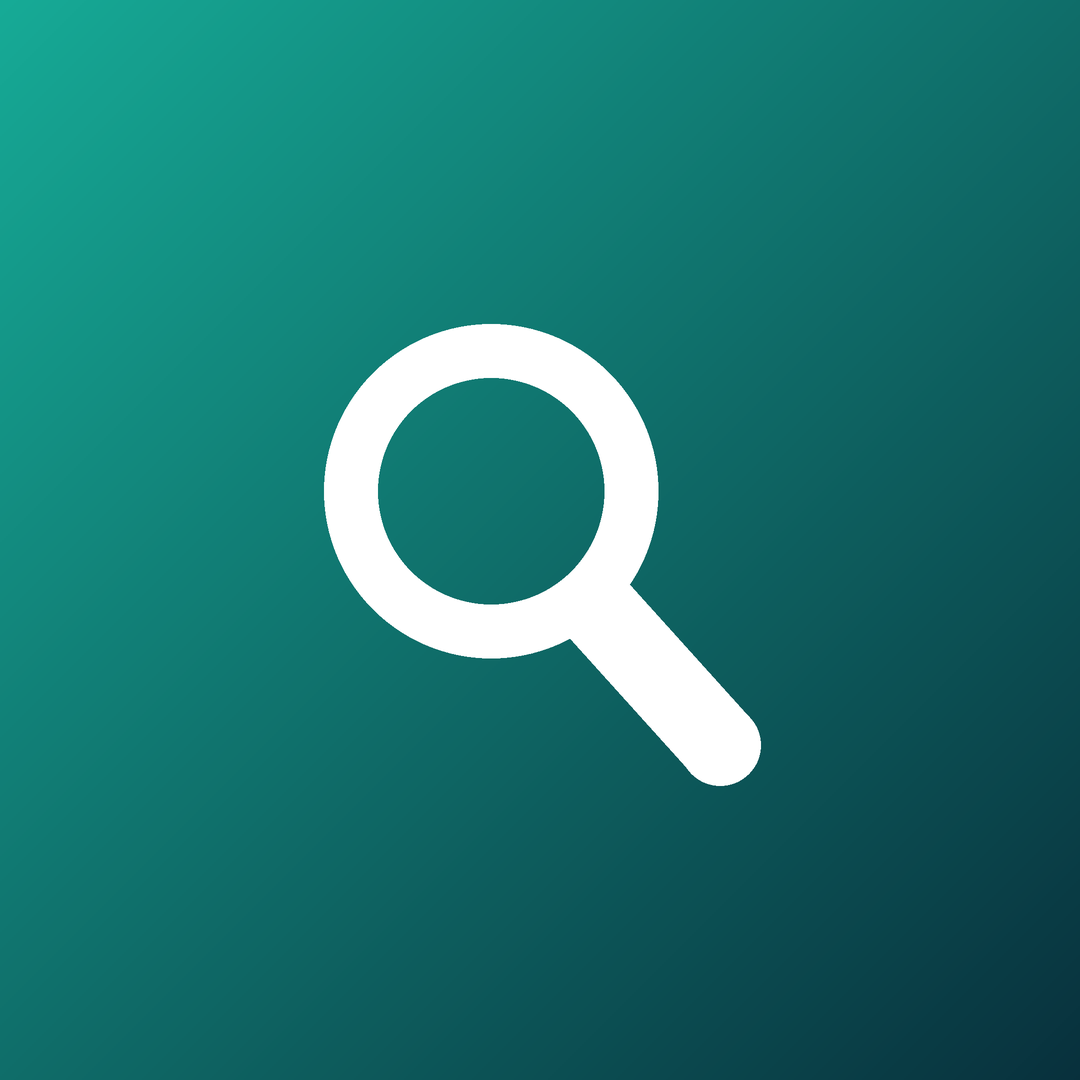
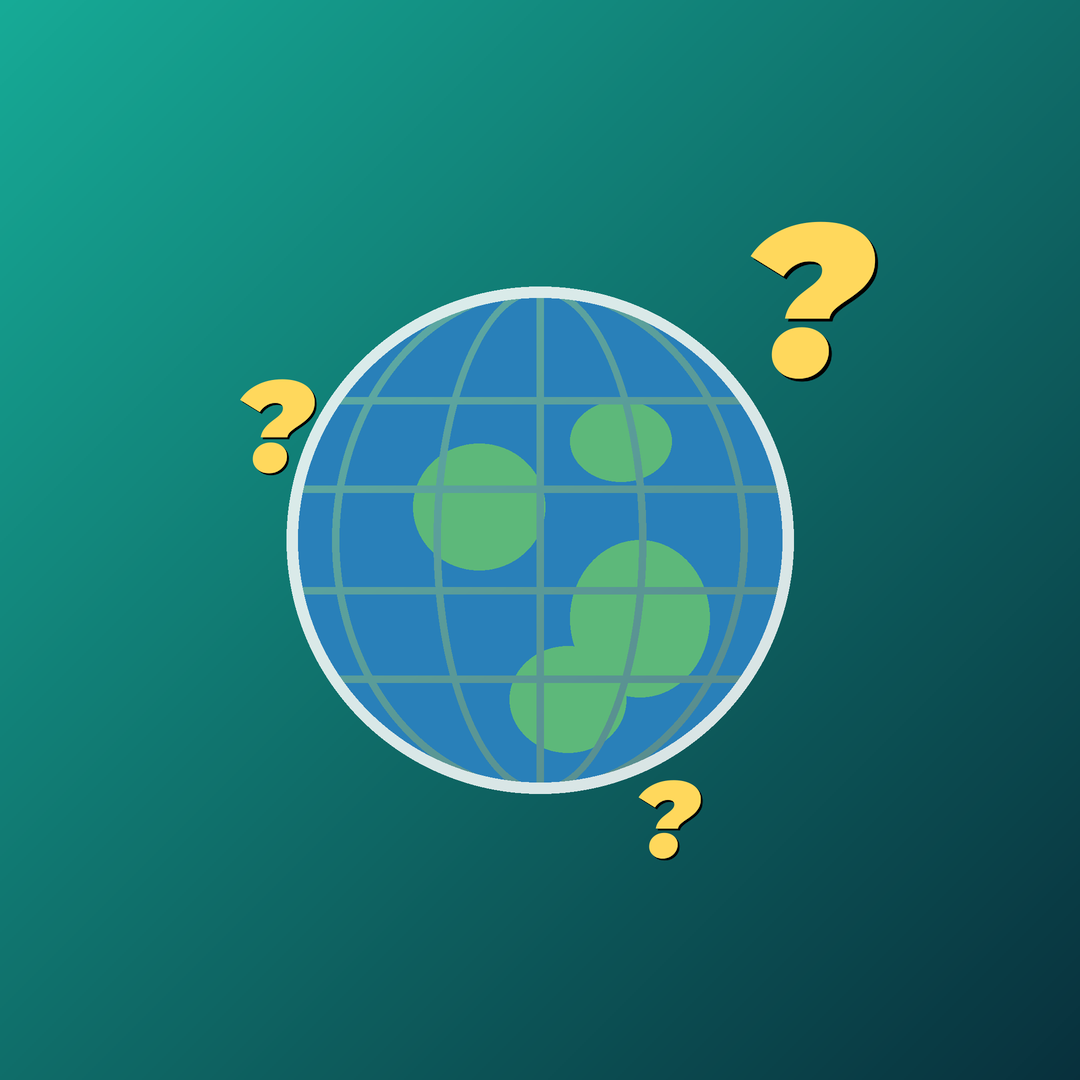
feat(branding): pfp whatonearth = globo terráqueo + signos "?" (más icónico)
Reemplaza la lupa sola por un globo (océano+continentes+grilla) con 3 "?" flotando,
que refleja "What On Earth Is This?!". Sin texto, centrado para el recorte circular.

Changed region(s): [[0.2139, 0.1833, 0.825, 0.7944]]

diff --git a/branding/make_assets.py b/branding/make_assets.py
@@ -108,6 +108,36 @@ def _magnifier(d, cx, cy, r, color, lw):
     d.ellipse([x1 - hw // 2, y1 - hw // 2, x1 + hw // 2, y1 + hw // 2], fill=color)
 
 
+def _make_globe(r: int):
+    """Globo terráqueo estilizado (océano + continentes + grilla), recortado a círculo.
+    Devuelve (imagen RGBA, centro)."""
+    import math
+
+    pad = max(4, r // 18)
+    size = 2 * r + 2 * pad
+    g = Image.new("RGBA", (size, size), (0, 0, 0, 0))
+    gd = ImageDraw.Draw(g)
+    c = size // 2
+    ocean, land, grid = (41, 128, 185, 255), (93, 184, 122, 255), (255, 255, 255, 80)
+    gd.ellipse([c - r, c - r, c + r, c + r], fill=ocean)
+    for bx, by, bw, bh in [(-0.5, -0.38, 0.52, 0.5), (0.12, 0.0, 0.55, 0.62),
+                           (-0.12, 0.42, 0.46, 0.42), (0.12, -0.55, 0.4, 0.32)]:
+        gd.ellipse([c + r * bx, c + r * by, c + r * (bx + bw), c + r * (by + bh)], fill=land)
+    for dy in (-0.55, -0.2, 0.2, 0.55):                  # paralelos
+        yy = c + r * dy
+        hw = r * math.sqrt(max(0.0, 1 - dy * dy))
+        gd.line([(c - hw, yy), (c + hw, yy)], fill=grid, width=max(2, r // 32))
+    for sx in (0.42, 0.82):                              # meridianos
+        gd.ellipse([c - r * sx, c - r, c + r * sx, c + r], outline=grid, width=max(2, r // 32))
+    gd.line([(c, c - r), (c, c + r)], fill=grid, width=max(2, r // 32))
+    mask = Image.new("L", (size, size), 0)
+    ImageDraw.Draw(mask).ellipse([c - r, c - r, c + r, c + r], fill=255)
+    g = Image.composite(g, Image.new("RGBA", (size, size), (0, 0, 0, 0)), mask)
+    ImageDraw.Draw(g).ellipse([c - r, c - r, c + r, c + r], outline=(255, 255, 255, 215),
+                              width=max(3, r // 22))
+    return g, c
+
+
 def make_pfp(key: str, b: dict) -> Path:
     """Foto de perfil TIKTOK/IG-friendly: SOLO elemento visual (sin texto), grande y
     centrado para que lea bien en el recorte CIRCULAR."""
@@ -116,8 +146,17 @@ def make_pfp(key: str, b: dict) -> Path:
     d = ImageDraw.Draw(img)
     cx = cy = w // 2
     white = (255, 255, 255, 255)
-    if b["symbol"] == "q":                               # whatonearth -> lupa
-        _magnifier(d, int(cx - w * 0.045), int(cy - w * 0.045), int(w * 0.155), white, int(w * 0.05))
+    if b["symbol"] == "q":                               # whatonearth -> globo + signos "?"
+        gr = int(w * 0.235)
+        globe, gc = _make_globe(gr)
+        img.alpha_composite(globe, (cx - gc, cy - gc))
+        d = ImageDraw.Draw(img)
+        _text(d, (int(cx + gr * 1.05), int(cy - gr * 0.95)), "?",
+              _font("Montserrat-BlackItalic.ttf", int(w * 0.2)), b["accent"], sw=6)
+        _text(d, (int(cx - gr * 1.05), int(cy - gr * 0.45)), "?",
+              _font("Montserrat-BlackItalic.ttf", int(w * 0.12)), b["accent"], sw=4)
+        _text(d, (int(cx + gr * 0.5), int(cy + gr * 1.1)), "?",
+              _font("Montserrat-BlackItalic.ttf", int(w * 0.1)), b["accent"], sw=4)
     elif b["symbol"] == "play":                          # streamers gameplay
         s = int(w * 0.2)
         d.polygon([(cx - s * 0.45, cy - s * 0.82), (cx - s * 0.45, cy + s * 0.82),
